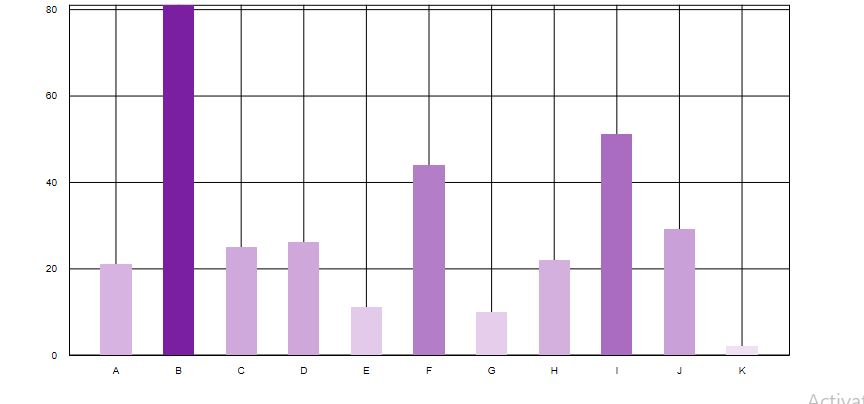
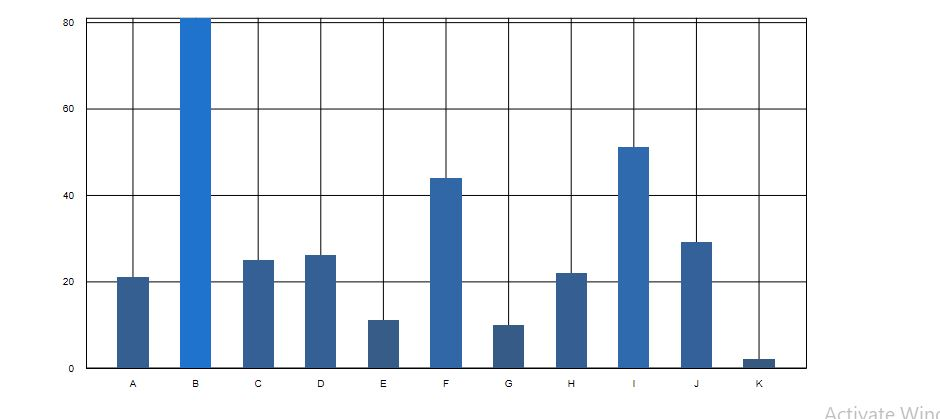
readme

Changed region(s): [[0.0312, 0.0, 0.9062, 0.9208], [0.875, 0.9802, 1.0, 1.0]]

diff --git a/src/Charts/BarChart/Bars/Bars.js b/src/Charts/BarChart/Bars/Bars.js
@@ -9,7 +9,7 @@ export default class Bars extends Component {
 
     this.colorScale = scaleLinear()
       .domain([0, this.props.maxValue])
-      .range(['#F3E5F5', '#7B1FA2'])
+      .range(['#37587d', '#2073cc'])
       .interpolate(interpolateLab);
   }
 
